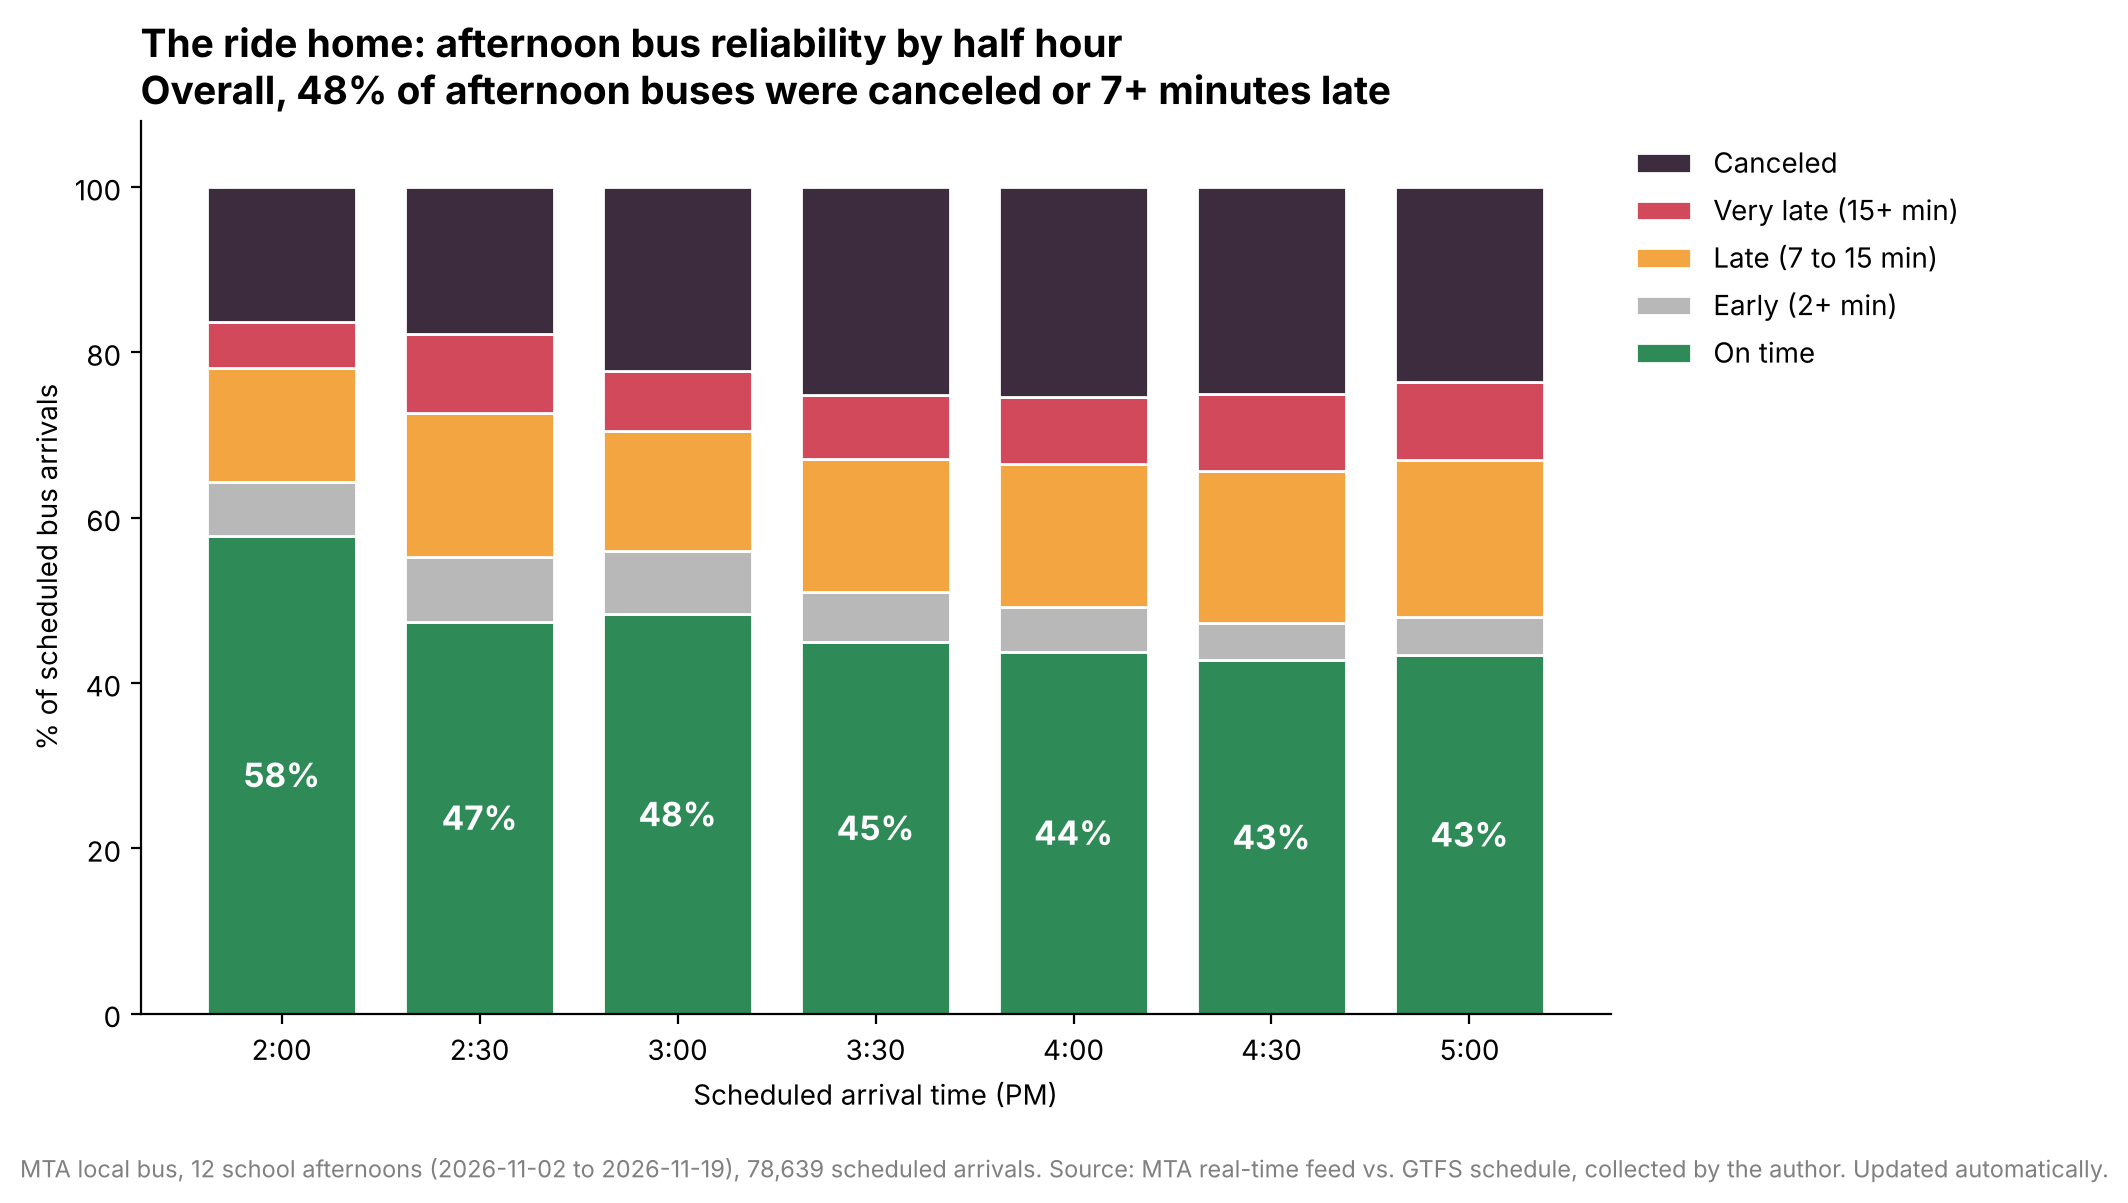
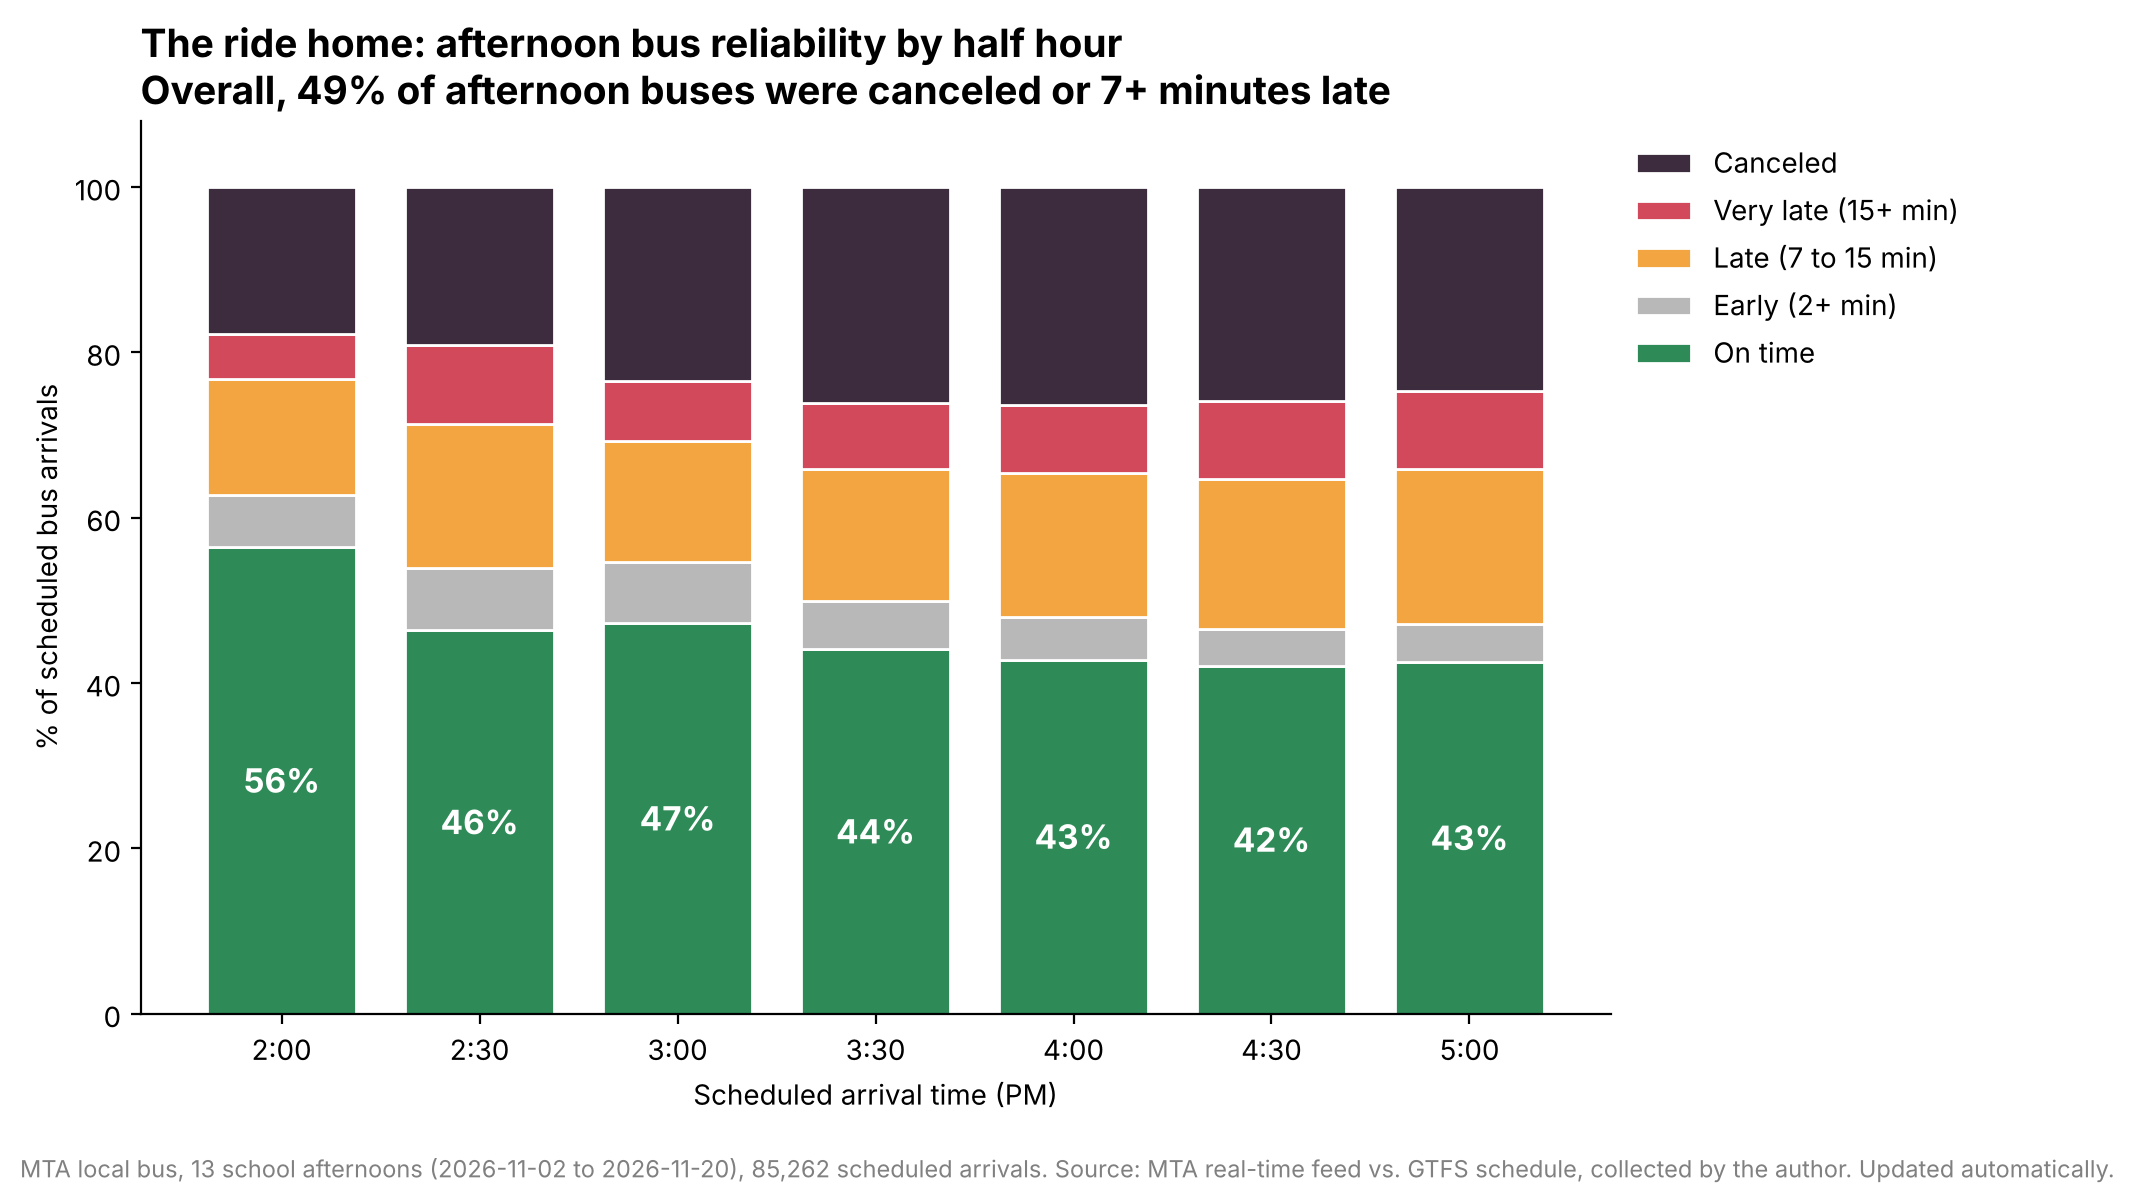
Show how every arrival turned out under each view
make_claim_chart.py now writes a per-outcome breakdown (on time, early,
late, very late, canceled) for morning, afternoon and overall into
project_c_claim.json. The page draws it as a 100% strip plus a list
under the Overall / Morning / Afternoon buttons, so it switches with
the charts and updates with each data run. Adds an Early definition.
Charts and numbers refreshed with the 2026-11-20 afternoon data.

Claude-Session: https://claude.ai/code/session_01BoNft2JENuQWRVfhvxynxU

diff --git a/docs/index.html b/docs/index.html
@@ -38,6 +38,15 @@ table.sc td.wrap{white-space:normal;min-width:220px}
 .sc-filter input{padding:6px 8px;border:1px solid #c9ccd0;border-radius:6px;font:inherit}
 .sc-more{display:block;margin:10px auto 0;padding:7px 16px;border:1px solid var(--line);border-radius:6px;background:#fffefa;color:var(--navy);font:inherit;font-size:.9rem;font-weight:600;cursor:pointer}
 .sc-more:hover{background:#f3efe4}.sc-more[hidden]{display:none}
+.pc-break{background:#fffefa;border:1px solid var(--line);border-radius:12px;padding:16px 18px;margin:0 0 18px}
+.pc-break h3{margin:0 0 10px;font-size:1.05rem;color:var(--navy)}
+.pc-break .strip{display:flex;height:22px;border-radius:6px;overflow:hidden;margin:0 0 12px}
+.pc-break .strip span{display:block;height:100%}
+.pc-break ul{list-style:none;margin:0;padding:0;display:grid;grid-template-columns:repeat(auto-fit,minmax(170px,1fr));gap:8px 16px}
+.pc-break li{display:flex;gap:8px;align-items:baseline;line-height:1.35}
+.pc-break .sw{flex:none;width:12px;height:12px;border-radius:3px;transform:translateY(1px)}
+.pc-break .p{font-weight:700;color:var(--navy);font-variant-numeric:tabular-nums;min-width:3ch}
+.pc-break .c{display:block;font-size:.82rem;color:#5a6a7c}
 .pc-defs{background:#fffefa;border:1px solid var(--line);border-radius:8px;padding:6px 18px}
 .pc-defs dt{font-weight:700;color:var(--navy);margin-top:10px}.pc-defs dd{margin:2px 0 8px 0;color:#34465c}
 </style></head>
@@ -69,6 +78,12 @@ table.sc td.wrap{white-space:normal;min-width:220px}
         <div class="pc-stat"><div class="num" data-stat="all_on_time">55%</div><div class="lbl">were on time</div></div>
         <div class="pc-stat"><div class="num neutral" data-stat="all_arrivals">168,085</div><div class="lbl">scheduled arrivals with a known outcome across <span data-stat="school_days">14</span> school days</div></div>
       </div>
+      <!-- How every arrival turned out; filled in from project_c_claim.json -->
+      <div class="pc-break" data-breakdown="all">
+        <h3>How arrivals with a known outcome turned out</h3>
+        <div class="strip" aria-hidden="true"></div>
+        <ul><li>Loading…</li></ul>
+      </div>
       <p>The charts show outcomes by scheduled arrival time. The chart and headline calculations include recorded arrivals and cancellations flagged by MTA.</p>
       <figure class="pc-figure">
         <img src="./data/school-commute/project_c_overall.png" alt="Morning and afternoon bus arrival outcomes by scheduled half-hour"/>
@@ -82,6 +97,12 @@ table.sc td.wrap{white-space:normal;min-width:220px}
         <div class="pc-stat"><div class="num" data-stat="on_time_8_to_9">54%</div><div class="lbl">were on time between 8:00 and 9:00 AM, the reference window used for school start times</div></div>
         <div class="pc-stat"><div class="num neutral" data-stat="am_arrivals">89,446</div><div class="lbl">scheduled arrivals with a known outcome across <span data-stat="mornings">14</span> school mornings (6:00 to 9:30 AM)</div></div>
       </div>
+      <!-- How every morning arrival turned out; filled in from project_c_claim.json -->
+      <div class="pc-break" data-breakdown="am">
+        <h3>How morning arrivals with a known outcome turned out</h3>
+        <div class="strip" aria-hidden="true"></div>
+        <ul><li>Loading…</li></ul>
+      </div>
       <p>The on-time share fell from <span data-stat="on_time_6">75%</span> in the 6:00 a.m. half-hour to <span data-stat="on_time_8_to_9">54%</span> between 8:00 and 9:00 a.m.</p>
       <figure class="pc-figure">
         <img src="./data/school-commute/project_c_claim.png" alt="Morning bus arrival outcomes by scheduled half-hour"/>
@@ -94,6 +115,12 @@ table.sc td.wrap{white-space:normal;min-width:220px}
         <div class="pc-stat"><div class="num" data-stat="pm_canceled_or_late">48%</div><div class="lbl">of afternoon arrivals with a known outcome were canceled or more than 7 minutes late</div></div>
         <div class="pc-stat"><div class="num" data-stat="pm_on_time">46%</div><div class="lbl">were on time</div></div>
         <div class="pc-stat"><div class="num neutral" data-stat="pm_arrivals">78,639</div><div class="lbl">scheduled arrivals with a known outcome across <span data-stat="afternoons">12</span> school afternoons (2:00 to 5:30 PM)</div></div>
+      </div>
+      <!-- How every afternoon arrival turned out; filled in from project_c_claim.json -->
+      <div class="pc-break" data-breakdown="pm">
+        <h3>How afternoon arrivals with a known outcome turned out</h3>
+        <div class="strip" aria-hidden="true"></div>
+        <ul><li>Loading…</li></ul>
       </div>
       <p>Among afternoon arrivals with a known outcome, <span data-stat="pm_on_time">46%</span> were on time.</p>
       <figure class="pc-figure">
@@ -144,6 +171,7 @@ table.sc td.wrap{white-space:normal;min-width:220px}
     <h3>Definitions</h3>
     <dl class="pc-defs">
       <dt>On time</dt><dd>The MTA's own standard: no more than 2 minutes early and no more than 7 minutes late, measured at scheduled timepoint stops.</dd>
+      <dt>Early</dt><dd>The bus left a timepoint more than 2 minutes ahead of schedule. A student who arrived on time could miss it.</dd>
       <dt>Late / very late</dt><dd>Late means more than 7 minutes and up to 15 minutes after the scheduled time. Very late means more than 15 minutes after the scheduled time.</dd>
       <dt>Canceled</dt><dd>The MTA's own feed marked the trip canceled.</dd>
       <dt>No record</dt><dd>A scheduled trip with no real-time record. This can reflect a missed trip or a tracking gap. It contributes to the route disruption rate and is excluded from the chart and headline calculations.</dd>
@@ -173,6 +201,26 @@ table.sc td.wrap{white-space:normal;min-width:220px}
   const fmtN = v => v == null ? '—' : Number(v).toLocaleString('en-US');
   const setStat = (key, v) => { if (v == null) return; document.querySelectorAll(`[data-stat="${key}"]`).forEach(e => { e.textContent = v; }); };
 
+  // Draws one outcome breakdown (on time, early, late, very late, canceled).
+  // Labels, colors and percents come from make_claim_chart.py, so they match the chart.
+  const NOTES = {early: 'left 2+ min ahead of schedule', on_time: '2 min early to 7 min late',
+                 late: 'more than 7, up to 15 min late', severely_late: 'more than 15 min late',
+                 canceled: 'trip canceled by MTA'};
+  function drawBreakdown(key, b){
+    const box = document.querySelector(`[data-breakdown="${key}"]`);
+    if (!box) return;
+    if (!b) { box.hidden = true; return; }
+    const strip = box.querySelector('.strip'), ul = box.querySelector('ul');
+    strip.textContent = ''; ul.textContent = '';
+    Object.entries(b).forEach(([k, o]) => {
+      const seg = el('span'); seg.style.width = o.pct + '%'; seg.style.background = o.color; strip.append(seg);
+      const li = el('li'), sw = el('span', undefined, 'sw'); sw.style.background = o.color;
+      const txt = el('span'); txt.append(el('span', o.display, 'p'), document.createTextNode(' ' + o.label));
+      txt.append(el('span', `${NOTES[k] || ''} · ${fmtN(o.count)} arrivals`, 'c'));
+      li.append(sw, txt); ul.append(li);
+    });
+  }
+
   // 1. Claim and afternoon numbers: written by scripts/make_claim_chart.py from
   // the same data as the chart. The numbers in the HTML are a fallback.
   fetch('./data/school-commute/project_c_claim.json', {cache: 'no-store'})
@@ -194,6 +242,8 @@ table.sc td.wrap{white-space:normal;min-width:220px}
         setStat('all_arrivals', fmtN(all.scheduled_arrivals));
         setStat('all_range', `Data: ${all.school_days} school days, ${all.first_date} to ${all.last_date}.`);
       }
+      // Outcome breakdown for each view: a 100% strip plus one line per outcome.
+      [['all', all], ['am', d], ['pm', pm]].forEach(([key, v]) => drawBreakdown(key, v && v.breakdown));
       if (pm) {
         setStat('pm_canceled_or_late', pm.display.canceled_or_late);
         setStat('pm_on_time', pm.display.on_time);

diff --git a/scripts/make_claim_chart.py b/scripts/make_claim_chart.py
@@ -140,9 +140,24 @@ def draw(known, window, out):
     return by_time, pct_failed
 
 
+def breakdown(known):
+    """How every arrival turned out: count and percent for each outcome.
+
+    Same five outcomes and order as the chart legend, so the page's breakdown
+    and the stacked bars always agree. The percents add up to 100 (before
+    rounding), and late + very late + canceled = the "canceled or 7+ minutes
+    late" headline.
+    """
+    counts = known["outcome"].value_counts().reindex(ORDER, fill_value=0)
+    pct = counts / counts.sum() * 100
+    return {o: {"label": LABELS[o], "color": COLORS[o], "count": int(counts[o]),
+                "pct": round(float(pct[o]), 1), "display": f"{pct[o]:.0f}%"} for o in ORDER}
+
+
 def summarize(known, by_time, pct_failed, noun):
     pct_on_time = (known["outcome"] == "on_time").mean() * 100
     return {
+        "breakdown": breakdown(known),
         f"school_{noun}": int(known["service_date"].nunique()),
         "first_date": str(known.service_date.min()),
         "last_date": str(known.service_date.max()),
